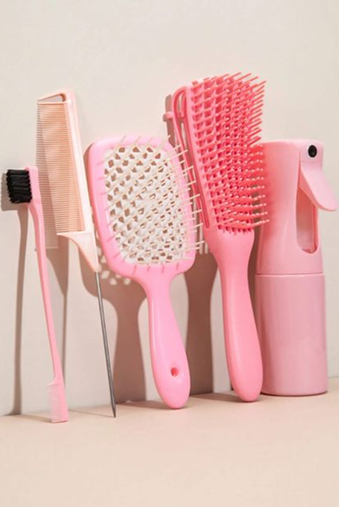
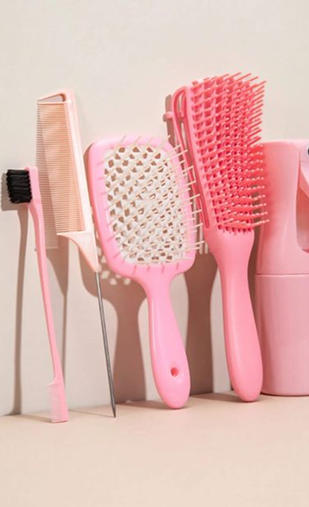
modificando as cores

diff --git a/beleza feminina/index.html b/beleza feminina/index.html
@@ -9,7 +9,7 @@
 <body>
     <header>
         <div class="banner">
-           <img src="img\Belle Rose (3) 1.png" alt="Banner belle rose">
+           <img src="img/Belle Rose (3) 1.png" alt="Banner belle rose">
        </div>
         <nav class="navbar">
            <ul>
@@ -17,7 +17,7 @@
             <li><a href="../moda feminina/index.html">Moda</a></li>
             <li><a href="../entretenimento/index.html">Entretenimento</a></li>
             <li><a href="../beleza feminina/index.html">Beleza</a></li>
-            <li><a href="../autoconhecimento e autocuidado/index.html">Autoconhecimento e Autocuidado</a></li>
+            <li><a href="../autoconhecimento e autocuidado//index.html">Autoconhecimento e Autocuidado</a></li>
            </ul>
          </nav>
     </header>
@@ -28,7 +28,7 @@
                     <li>Pele</li>
                     <li>Cabelo</li>
                     <li>Ideias pra unhas</li>
-                    <li>Aplicação de produtos</li>
+                    <li>Aplicação de produtos</li>
                 </ul>
 
             <div class="image">
@@ -95,15 +95,15 @@
             <div class="final">
                 <div class="eita">
     
-                    <h3>Esnalte, brilho e estilo!</h3>
-                    <p>Cuidar as unhas e expreimentar</p>
-                    <p>esmaltações é uma froma de</p>
-                    <p>expressar nossa personalidade e</p>
-                    <p>elevar o autocuidado a um novo</p>
-                    <p>nível de estilo</p>
+                    <h3>Esmalte, brilho e estilo!</h3>
+                    <p>Cuidar as unhas e expreimentar
+                    esmaltações é uma froma de
+                    expressar nossa personalidade e
+                    elevar o autocuidado a um novo
+                    nível de estilo</p>
         
-                    <p><strong>Confira aqui aqui alguns artigos</strong></p>
-                    <p><strong>relacionados a esse universo.</strong></p>
+                    <p><strong>Confira aqui aqui alguns artigos<br>
+                        relacionados a esse universo.</strong></p>
                     <button class="haram">Saiba mais</button>
                 </div>
     
@@ -121,15 +121,15 @@
         <section>
             <div class="final1">
                 <div class="eita">
-                    <h3>Bons produtos são essenciais por varias razões</p></h3>
+                    <h3>Bons produtos são essenciais por varias razões</p></h3>
                     
-                    <p>Usar bons produtos é importante porque eles contêm</p>
-                    <p>ingredientes de melhor qualidade, são mais eficazes e</p>
-                    <p>duram mais. Além disso, muitas marcas de qualidade</p>
-                    <p>adotam práticas sustentáveis e éticas, o que beneficia</p>
-                    <p>tanto o usuário quanto o meio ambiente. Produtos de</p>
-                    <p>boa qualidade também proporcionam uma experiência</p>
-                    <p>mais satisfatória e confiável.</p>
+                    <p>Usar bons produtos é importante porque eles contêm
+                        ingredientes de melhor qualidade, são mais eficazes e
+                        duram mais. Além disso, muitas marcas de qualidade
+                        adotam práticas sustentáveis e éticas, o que beneficia
+                        tanto o usuário quanto o meio ambiente. Produtos de
+                        boa qualidade também proporcionam uma experiência
+                        mais satisfatória e confiável.</p>
         
                     <button class="haram">Saiba mais</button>
                 </div>
@@ -157,11 +157,11 @@
     <footer>
         <img src="img/rodapé.png" alt="" id="img_rodape">
         <div class="rodape">
-            <p><strong>Interação:</strong>
+            <p><strong>Interação:</strong>
             <ul class="interacao">
                 <a href="#"><li>Quizzes</li></a>
-                <a href="#"><li>Formulários</li></a>
-                <a href="#"><li>Dicas para Organização</li></a>
+                <a href="#"><li>Formulários</li></a>
+                <a href="#"><li>Dicas para Organização</li></a>
             </ul>
         </div>
 
@@ -169,13 +169,14 @@
     
         <div class="rodape">
             <p><strong>Fique por dentro:</strong></p>
-            <p>Junte-se à nossa comunidade nas redes sociais!</p>
+            <p>Junte-se à nossa comunidade nas redes sociais!</p>
             <div class="redes">
                 <a href="#"><img src="img/icons8-instagram.svg" alt="instagram"></a>
                 <a href="#"><img src="img/icons8-pinterest.svg" alt="pinterest"></a>
                 <a href="#"><img src="img/icons8-tiktok.svg" alt="tiktok"></a>
                 <a href="#"><img src="img/icons8-facebook-novo.svg" alt="facebook"></a>
                 <a href="#"><img src="img/icons8-x.svg" alt="x"></a>
+        
             </div>
         </div>
 

diff --git a/autoconhecimento e autocuidado/index.html b/autoconhecimento e autocuidado/index.html
@@ -13,11 +13,11 @@
        </div>
         <nav class="navbar">
            <ul>
-            <li><a href="../página inicial/index.html">Início</a></li>
+            <li><a href="../página inicial 2/index.html">Início</a></li>
             <li><a href="../moda feminina/index.html">Moda</a></li>
             <li><a href="../entretenimento/index.html">Entretenimento</a></li>
             <li><a href="../beleza feminina/index.html">Beleza</a></li>
-            <li><a href="../autoconhecimento e autocuidado//index.html">Autoconhecimento e Autocuidado</a></li>
+            <li><a href="../autoconhecimento e autocuidado/index.html">Autoconhecimento e Autocuidado</a></li>
            </ul>
          </nav>
     </header>

diff --git a/filmes/index.html b/filmes/index.html
@@ -17,7 +17,7 @@
                <li><a href="../moda feminina/index.html">Moda</a></li>
                <li><a href="../entretenimento/index.html">Entretenimento</a></li>
                <li><a href="../beleza feminina/index.html">Beleza</a></li>
-               <li><a href="../autoconhecimento/index.html">Autoconhecimento e Autocuidado</a></li>
+               <li><a href="../autoconhecimento e autocuidado/index.html">Autoconhecimento e Autocuidado</a></li>
            </ul>
          </nav>
     </header>

diff --git a/beleza feminina/css/estilo.css b/beleza feminina/css/estilo.css
@@ -122,7 +122,7 @@ section li{
     padding: 0px;
 }
 .lado{
-    margin-left: 83px;
+    margin-left: 80px;
 }
 
 .image{
@@ -210,7 +210,8 @@ section li{
 .eita{
     max-width: 60%;
     font-size: 18px;
-    line-height: 1.6;
+    text-align: justify;
+    margin-left: 20px;
 }
 
 .imagem3{
@@ -251,10 +252,8 @@ section .final1{
     display: flex;
     justify-content: center;
     align-items: center;
-    
+    padding: 20px;
     gap: 200px;
-
-
 }
 .redes img{
     width: 35px;

diff --git a/autoconhecimento e autocuidado/css/estilo.css b/autoconhecimento e autocuidado/css/estilo.css
@@ -98,7 +98,7 @@ body{
 }
 
 .frase{
-    background-color: #FFF5F5;
+    background-color: #ffdef4;
     display: flex;
     justify-content: end;
     align-items: center;
